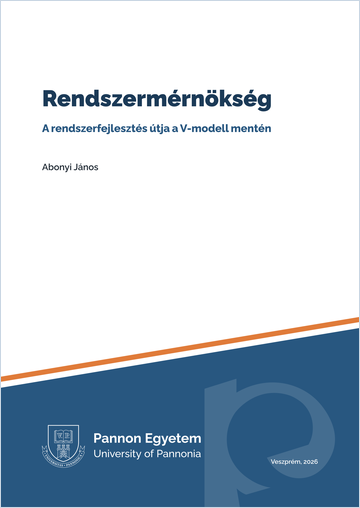
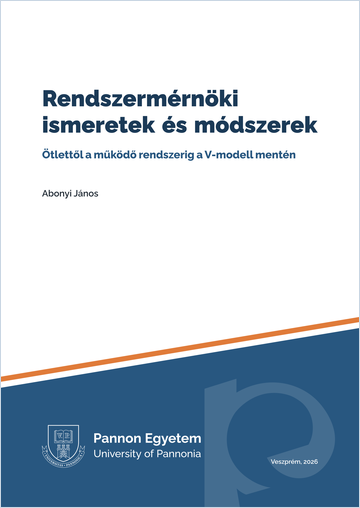
Systems engineering textbook is live: links, cover, DOI
Claude-Session: https://claude.ai/code/session_01B7ZiGjqMEoc7xsbXF5qm4o

Changed region(s): [[0.1222, 0.2953, 0.825, 0.4134], [0.1222, 0.1772, 0.8861, 0.2657]]

diff --git a/README.md b/README.md
@@ -33,7 +33,7 @@ the portal at [complexsystemsintelligence.github.io](https://complexsystemsintel
 ## Open textbooks
 
 Open-access university textbooks (in Hungarian), each published as a searchable web book with
-printable PDF and EPUB editions, browser-based practice apps that need no installation, and Google
+printable PDF and EPUB editions, practice materials (browser apps or Excel templates) and Google
 Colab notebooks that run with one click. Figures are drawn in TikZ, the worked examples are
 reproducible from the repositories, and releases are archived on Zenodo with a citable DOI.
 
@@ -56,12 +56,12 @@ reproducible from the repositories, and releases are archived on Zenodo with a c
       <p><a href="https://complexsystemsintelligence.github.io/biztonsagkritikus-rendszerek/"><b>Web book</b></a> · <a href="https://complexsystemsintelligence.github.io/biztonsagkritikus-rendszerek/kezikonyv/biztonsagkritikus-rendszerek.pdf">PDF</a> · <a href="https://complexsystemsintelligence.github.io/biztonsagkritikus-rendszerek/kezikonyv/biztonsagkritikus-rendszerek.epub">EPUB</a><br><a href="https://complexsystemsintelligence.github.io/biztonsagkritikus-rendszerek/gyakorlat/">12 labs</a> · <a href="https://github.com/ComplexSystemsIntelligence/biztonsagkritikus-rendszerek/tree/main/gyakorlat/alkalmazasok">9 practice apps</a> · <a href="https://github.com/ComplexSystemsIntelligence/biztonsagkritikus-rendszerek/tree/main/gyakorlat/notebookok">7 Colab notebooks</a><br><a href="https://github.com/ComplexSystemsIntelligence/biztonsagkritikus-rendszerek">Source</a> · <a href="https://doi.org/10.5281/zenodo.24413011">DOI</a></p>
     </td>
     <td align="center" valign="top" width="33%">
-      <a href="https://github.com/ComplexSystemsIntelligence/rendszermernokseg"><img src="assets/covers/rendszermernokseg.png" width="180" alt="Cover: Rendszermérnökség"></a>
-      <h3>Rendszermérnökség</h3>
-      <em>Systems Engineering: System Development along the V-Model</em><br>
-      <sub>Handbook + practical toolkit</sub>
-      <p>26 chapters following the V-model from stakeholders and requirements through architecture, decision making, human-centred design and risk to verification, validation and operation.</p>
-      <p><b>Web edition launching soon</b><br><a href="https://github.com/ComplexSystemsIntelligence/rendszermernokseg">Source</a></p>
+      <a href="https://complexsystemsintelligence.github.io/rendszermernokseg/"><img src="assets/covers/rendszermernokseg.png" width="180" alt="Cover: Rendszermérnöki ismeretek és módszerek"></a>
+      <h3>Rendszermérnöki ismeretek és módszerek</h3>
+      <em>Systems Engineering: From Idea to Working System along the V-Model</em><br>
+      <sub>Handbook + practical guide</sub>
+      <p>26 chapters following the V-model from stakeholders and requirements through architecture, decision making, human-centred design and risk to verification, validation and operation, with three running cases.</p>
+      <p><a href="https://complexsystemsintelligence.github.io/rendszermernokseg/"><b>Web book</b></a> · <a href="https://complexsystemsintelligence.github.io/rendszermernokseg/kezikonyv/rendszermernokseg-kezikonyv.pdf">PDF</a> · <a href="https://complexsystemsintelligence.github.io/rendszermernokseg/kezikonyv/rendszermernokseg-kezikonyv.epub">EPUB</a><br><a href="https://complexsystemsintelligence.github.io/rendszermernokseg/gyakorlat/">55 method sheets</a> · <a href="https://github.com/ComplexSystemsIntelligence/rendszermernokseg/tree/main/gyakorlat/sablonok">54 Excel templates</a> · <a href="https://github.com/ComplexSystemsIntelligence/rendszermernokseg/tree/main/gyakorlat/notebookok">46 Colab notebooks</a><br><a href="https://github.com/ComplexSystemsIntelligence/rendszermernokseg">Source</a> · <a href="https://doi.org/10.5281/zenodo.24414135">DOI</a></p>
     </td>
   </tr>
 </table>
